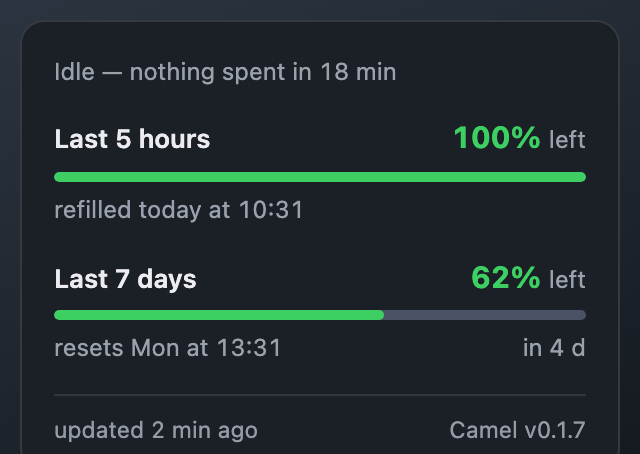
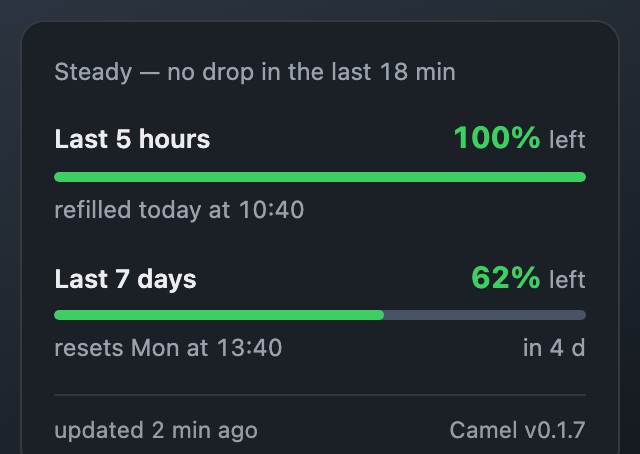
The forecast survives a rolling window recovering
Live data killed the first cut: these windows roll, so the remaining
percent climbs on its own as old usage ages out the back. Treating every
rise as a refill cleared the sample buffer every couple of minutes, and
the forecast never had three minutes of history to work from — it sat at
Unknown forever while the log showed 82, 83, 82, 81, 88, 81.

Only a new period clears the buffer now, detected by the reset moment
moving rather than by the number going up. The calm verdict says 'Steady'
rather than 'Idle': a level that holds does not prove nobody is working.

Changed region(s): [[0.0625, 0.1233, 0.7188, 0.185], [0.375, 0.7401, 0.4375, 0.8018], [0.4375, 0.4317, 0.4688, 0.4934]]

diff --git a/src/format.test.js b/src/format.test.js
@@ -72,9 +72,10 @@ describe('paceLine', () => {
     expect(paceLine({ state: 'runs_out', window: 'seven_day', at: thu, before_reset: 2 * 86400 }, NOW, false))
       .toEqual({ text: 'Weekly limit runs out Thu at 09:15', aside: '2 d early', level: 'warn' });
   });
-  test('safe and idle are calm, and say something rather than nothing', () => {
+  test('safe and steady are calm, and say something rather than nothing', () => {
     expect(paceLine({ state: 'safe' }, NOW).level).toBe('calm');
-    expect(paceLine({ state: 'idle', minutes: 12 }, NOW).text).toBe('Idle — nothing spent in 12 min');
+    expect(paceLine({ state: 'steady', minutes: 12 }, NOW).text)
+      .toBe('Steady — no drop in the last 12 min');
   });
   test('too little history shows no line at all', () => {
     expect(paceLine({ state: 'unknown' }, NOW)).toBeNull();

diff --git a/src/format.js b/src/format.js
@@ -81,8 +81,11 @@ function shortWhen(secs, nowSecs, hour12) {
 // of the miss, in the same two-column rhythm as the reset row below it.
 export function paceLine(pace, nowSecs, hour12 = systemUses12Hour()) {
   switch (pace.state) {
-    case 'idle':
-      return { text: `Idle — nothing spent in ${pace.minutes} min`, aside: '', level: 'calm' };
+    // Not "idle": these windows roll, so a level that holds may mean nobody is
+    // working *or* that usage is ageing out as fast as it arrives. The panel
+    // reports what it can see — the level — not a guess about the person.
+    case 'steady':
+      return { text: `Steady — no drop in the last ${pace.minutes} min`, aside: '', level: 'calm' };
     case 'safe':
       return { text: 'On pace to last the window', aside: '', level: 'calm' };
     case 'runs_out': {

diff --git a/src-tauri/src/pace.rs b/src-tauri/src/pace.rs
@@ -22,11 +22,21 @@ pub struct Sample {
     pub at: i64,
     pub five: u8,
     pub seven: u8,
+    /// The reset moments the readings belonged to. A window that starts a new
+    /// period is a different window, and old samples do not describe it.
+    pub five_reset: i64,
+    pub seven_reset: i64,
 }
 
 impl Sample {
     pub fn of(s: &Snapshot, at: i64) -> Self {
-        Sample { at, five: s.five_hour.remaining, seven: s.seven_day.remaining }
+        Sample {
+            at,
+            five: s.five_hour.remaining,
+            seven: s.seven_day.remaining,
+            five_reset: s.five_hour.resets_at,
+            seven_reset: s.seven_day.resets_at,
+        }
     }
 }
 
@@ -36,8 +46,9 @@ impl Sample {
 pub enum Pace {
     /// Not enough history yet to say anything honest.
     Unknown,
-    /// Nothing was spent across everything we can see.
-    Idle { minutes: i64 },
+    /// The level is not falling across everything we can see — either nobody
+    /// is working, or usage is ageing out as fast as it arrives.
+    Steady { minutes: i64 },
     /// Every window outlasts its own reset at this rate.
     Safe,
     /// The window that empties first, and when it does.
@@ -45,12 +56,15 @@ pub enum Pace {
 }
 
 pub fn push(history: &mut VecDeque<Sample>, s: Sample) {
-    // A window coming back is a refill, not negative spending — the slope
-    // across that jump would be nonsense, so the history starts over.
-    let refilled = history
+    // A *new period* invalidates the history, and only that. Remaining going
+    // up inside the same period is ordinary: these windows roll, so usage
+    // ages out the back and the number recovers on its own — treating every
+    // rise as a refill cleared the buffer every couple of minutes and the
+    // forecast never had enough history to say anything.
+    let new_period = history
         .back()
-        .is_some_and(|last| s.five > last.five || s.seven > last.seven);
-    if refilled {
+        .is_some_and(|last| s.five_reset != last.five_reset || s.seven_reset != last.seven_reset);
+    if new_period {
         history.clear();
     }
     history.push_back(s);
@@ -68,10 +82,12 @@ pub fn of(history: &VecDeque<Sample>, snap: &Snapshot, now: i64) -> Pace {
         return Pace::Unknown;
     }
 
+    // saturating_sub, so a window that recovered over the span counts as no
+    // burn rather than a negative one.
     let spent_five = first.five.saturating_sub(last.five);
     let spent_seven = first.seven.saturating_sub(last.seven);
     if spent_five == 0 && spent_seven == 0 {
-        return Pace::Idle { minutes: span / 60 };
+        return Pace::Steady { minutes: span / 60 };
     }
 
     let runs_out = |name: &'static str, spent: u8, w: Window| -> Option<Pace> {
@@ -114,12 +130,18 @@ mod tests {
         }
     }
 
+    const FIVE_RESET: i64 = 99999;
+    const SEVEN_RESET: i64 = 999999;
+
+    fn sample(at: i64, five: u8, seven: u8) -> Sample {
+        Sample { at, five, seven, five_reset: FIVE_RESET, seven_reset: SEVEN_RESET }
+    }
+
     /// Ten minutes of samples, `five` falling by `drop` percent over them.
     fn history(drop: u8) -> VecDeque<Sample> {
         let mut h = VecDeque::new();
         for i in 0..=10 {
-            let at = 1000 + i * 60;
-            push(&mut h, Sample { at, five: 80 - (drop as i64 * i / 10) as u8, seven: 90 });
+            push(&mut h, sample(1000 + i * 60, 80 - (drop as i64 * i / 10) as u8, 90));
         }
         h
     }
@@ -127,16 +149,33 @@ mod tests {
     #[test]
     fn too_little_history_says_nothing_rather_than_guessing() {
         let mut h = VecDeque::new();
-        push(&mut h, Sample { at: 1000, five: 80, seven: 90 });
-        push(&mut h, Sample { at: 1060, five: 79, seven: 90 });
-        assert_eq!(of(&h, &snap(79, 99999, 90, 999999), 1060), Pace::Unknown);
-        assert_eq!(of(&VecDeque::new(), &snap(80, 99999, 90, 999999), 1000), Pace::Unknown);
+        push(&mut h, sample(1000, 80, 90));
+        push(&mut h, sample(1060, 79, 90));
+        assert_eq!(of(&h, &snap(79, FIVE_RESET, 90, SEVEN_RESET), 1060), Pace::Unknown);
+        assert_eq!(of(&VecDeque::new(), &snap(80, FIVE_RESET, 90, SEVEN_RESET), 1000), Pace::Unknown);
     }
 
     #[test]
-    fn nothing_spent_is_idle_not_a_forecast() {
+    fn a_level_that_is_not_falling_is_steady_not_a_forecast() {
         let h = history(0);
-        assert_eq!(of(&h, &snap(80, 99999, 90, 999999), 1600), Pace::Idle { minutes: 10 });
+        assert_eq!(of(&h, &snap(80, FIVE_RESET, 90, SEVEN_RESET), 1600), Pace::Steady { minutes: 10 });
+    }
+
+    #[test]
+    fn a_rolling_window_recovering_does_not_wipe_the_history() {
+        // Seen live: these windows roll, so usage ages out the back and the
+        // remaining percent climbs on its own. Treating every rise as a refill
+        // cleared the buffer every couple of minutes and the forecast stayed
+        // Unknown forever.
+        let mut h = VecDeque::new();
+        for (i, five) in [82u8, 83, 82, 81, 88, 81, 80].iter().enumerate() {
+            push(&mut h, sample(1000 + i as i64 * 60, *five, 90));
+        }
+        assert_eq!(h.len(), 7);
+        assert!(matches!(
+            of(&h, &snap(80, FIVE_RESET, 90, SEVEN_RESET), 1360),
+            Pace::RunsOut { .. } | Pace::Safe
+        ));
     }
 
     #[test]
@@ -165,18 +204,23 @@ mod tests {
     }
 
     #[test]
-    fn a_refill_starts_the_history_over_instead_of_reading_as_a_negative_burn() {
+    fn a_new_period_starts_the_history_over() {
+        // The reset moment moved: this is a fresh window, and samples from the
+        // old one describe a budget that no longer exists.
         let mut h = history(20);
-        push(&mut h, Sample { at: 1660, five: 100, seven: 90 });
+        push(
+            &mut h,
+            Sample { at: 1660, five: 100, seven: 90, five_reset: FIVE_RESET + 5 * 3600, seven_reset: SEVEN_RESET },
+        );
         assert_eq!(h.len(), 1);
-        assert_eq!(of(&h, &snap(100, 99999, 90, 999999), 1660), Pace::Unknown);
+        assert_eq!(of(&h, &snap(100, FIVE_RESET + 5 * 3600, 90, SEVEN_RESET), 1660), Pace::Unknown);
     }
 
     #[test]
     fn samples_older_than_the_window_fall_out_the_front() {
         let mut h = VecDeque::new();
-        push(&mut h, Sample { at: 0, five: 90, seven: 95 });
-        push(&mut h, Sample { at: HISTORY_SECS + 1, five: 80, seven: 95 });
+        push(&mut h, sample(0, 90, 95));
+        push(&mut h, sample(HISTORY_SECS + 1, 80, 95));
         assert_eq!(h.len(), 1);
     }
 }

diff --git a/src-tauri/src/lib.rs b/src-tauri/src/lib.rs
@@ -158,6 +158,10 @@ fn refresh(app: &AppHandle) {
     }
     if changed {
         apply_tray(app);
+        // The forecast is the panel's headline and the panel is invisible most
+        // of the time; without this the next "the line says nothing" report
+        // would start from guesses.
+        debug_log::log(&format!("pace: {:?}", current_pace(&state)));
         let _ = app.emit("limits-changed", ());
     }
 }

diff --git a/CHANGELOG.md b/CHANGELOG.md
@@ -1,5 +1,18 @@
 # Changelog
 
+## 0.1.9 — 2026-08-06
+
+- Fix, caught by watching the forecast against live data: these windows
+  *roll*, so the remaining percent climbs on its own as old usage ages out
+  the back. The first cut treated every rise as a refill and cleared the
+  sample buffer — which happened every couple of minutes, so the forecast
+  never gathered enough history and sat at "no verdict" forever. Only a new
+  period (the reset moment moving) clears the buffer now.
+- The calm verdict says "Steady — no drop in the last 12 min" rather than
+  "Idle". On a rolling window a level that holds may mean nobody is working,
+  or that usage is ageing out as fast as it arrives; the panel reports the
+  level it can see, not a guess about the person.
+
 ## 0.1.8 — 2026-08-06
 
 Design critique of the panel (`/impeccable critique`, scored 20/40) turned up
